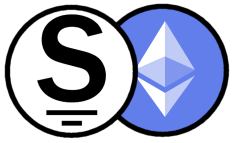
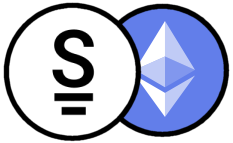
Updated

Changed region(s): [[0.0, 0.0, 0.6309, 1.0]]

diff --git a/index.html b/index.html
@@ -61,7 +61,7 @@
 	</div>
 	<div class="row featurette">
 		<div class="col-md-8 col-md-offset-2" id="mid_div" style="margin-bottom: 80px;">
-			<img src="images/logo.png" class="img-fluid" style="max-width: 300px; height: auto;">
+			<img src="images/logo.png" class="img-fluid" id="logo_img">
 			<br><br>
 			<span style="color: rgb(40,40,40); font-size: 16px;">Earn STBZ for keeping stablecoins on their pegs</span> 
 			<br><br><br>

diff --git a/css/ui.css b/css/ui.css
@@ -12,6 +12,11 @@ body{
 	padding: 10px;
 }
 
+#logo_img{
+	max-width: 415px;
+	height: auto;
+}
+
 #menu_div{
 	text-align: center;
 	font-size: 16px;
@@ -269,5 +274,8 @@ body{
 	}
 	.unlock_wrap_div{
 		padding-top: 0px;
+	}
+	#logo_img{
+		max-width: 300px;
 	}
 }
